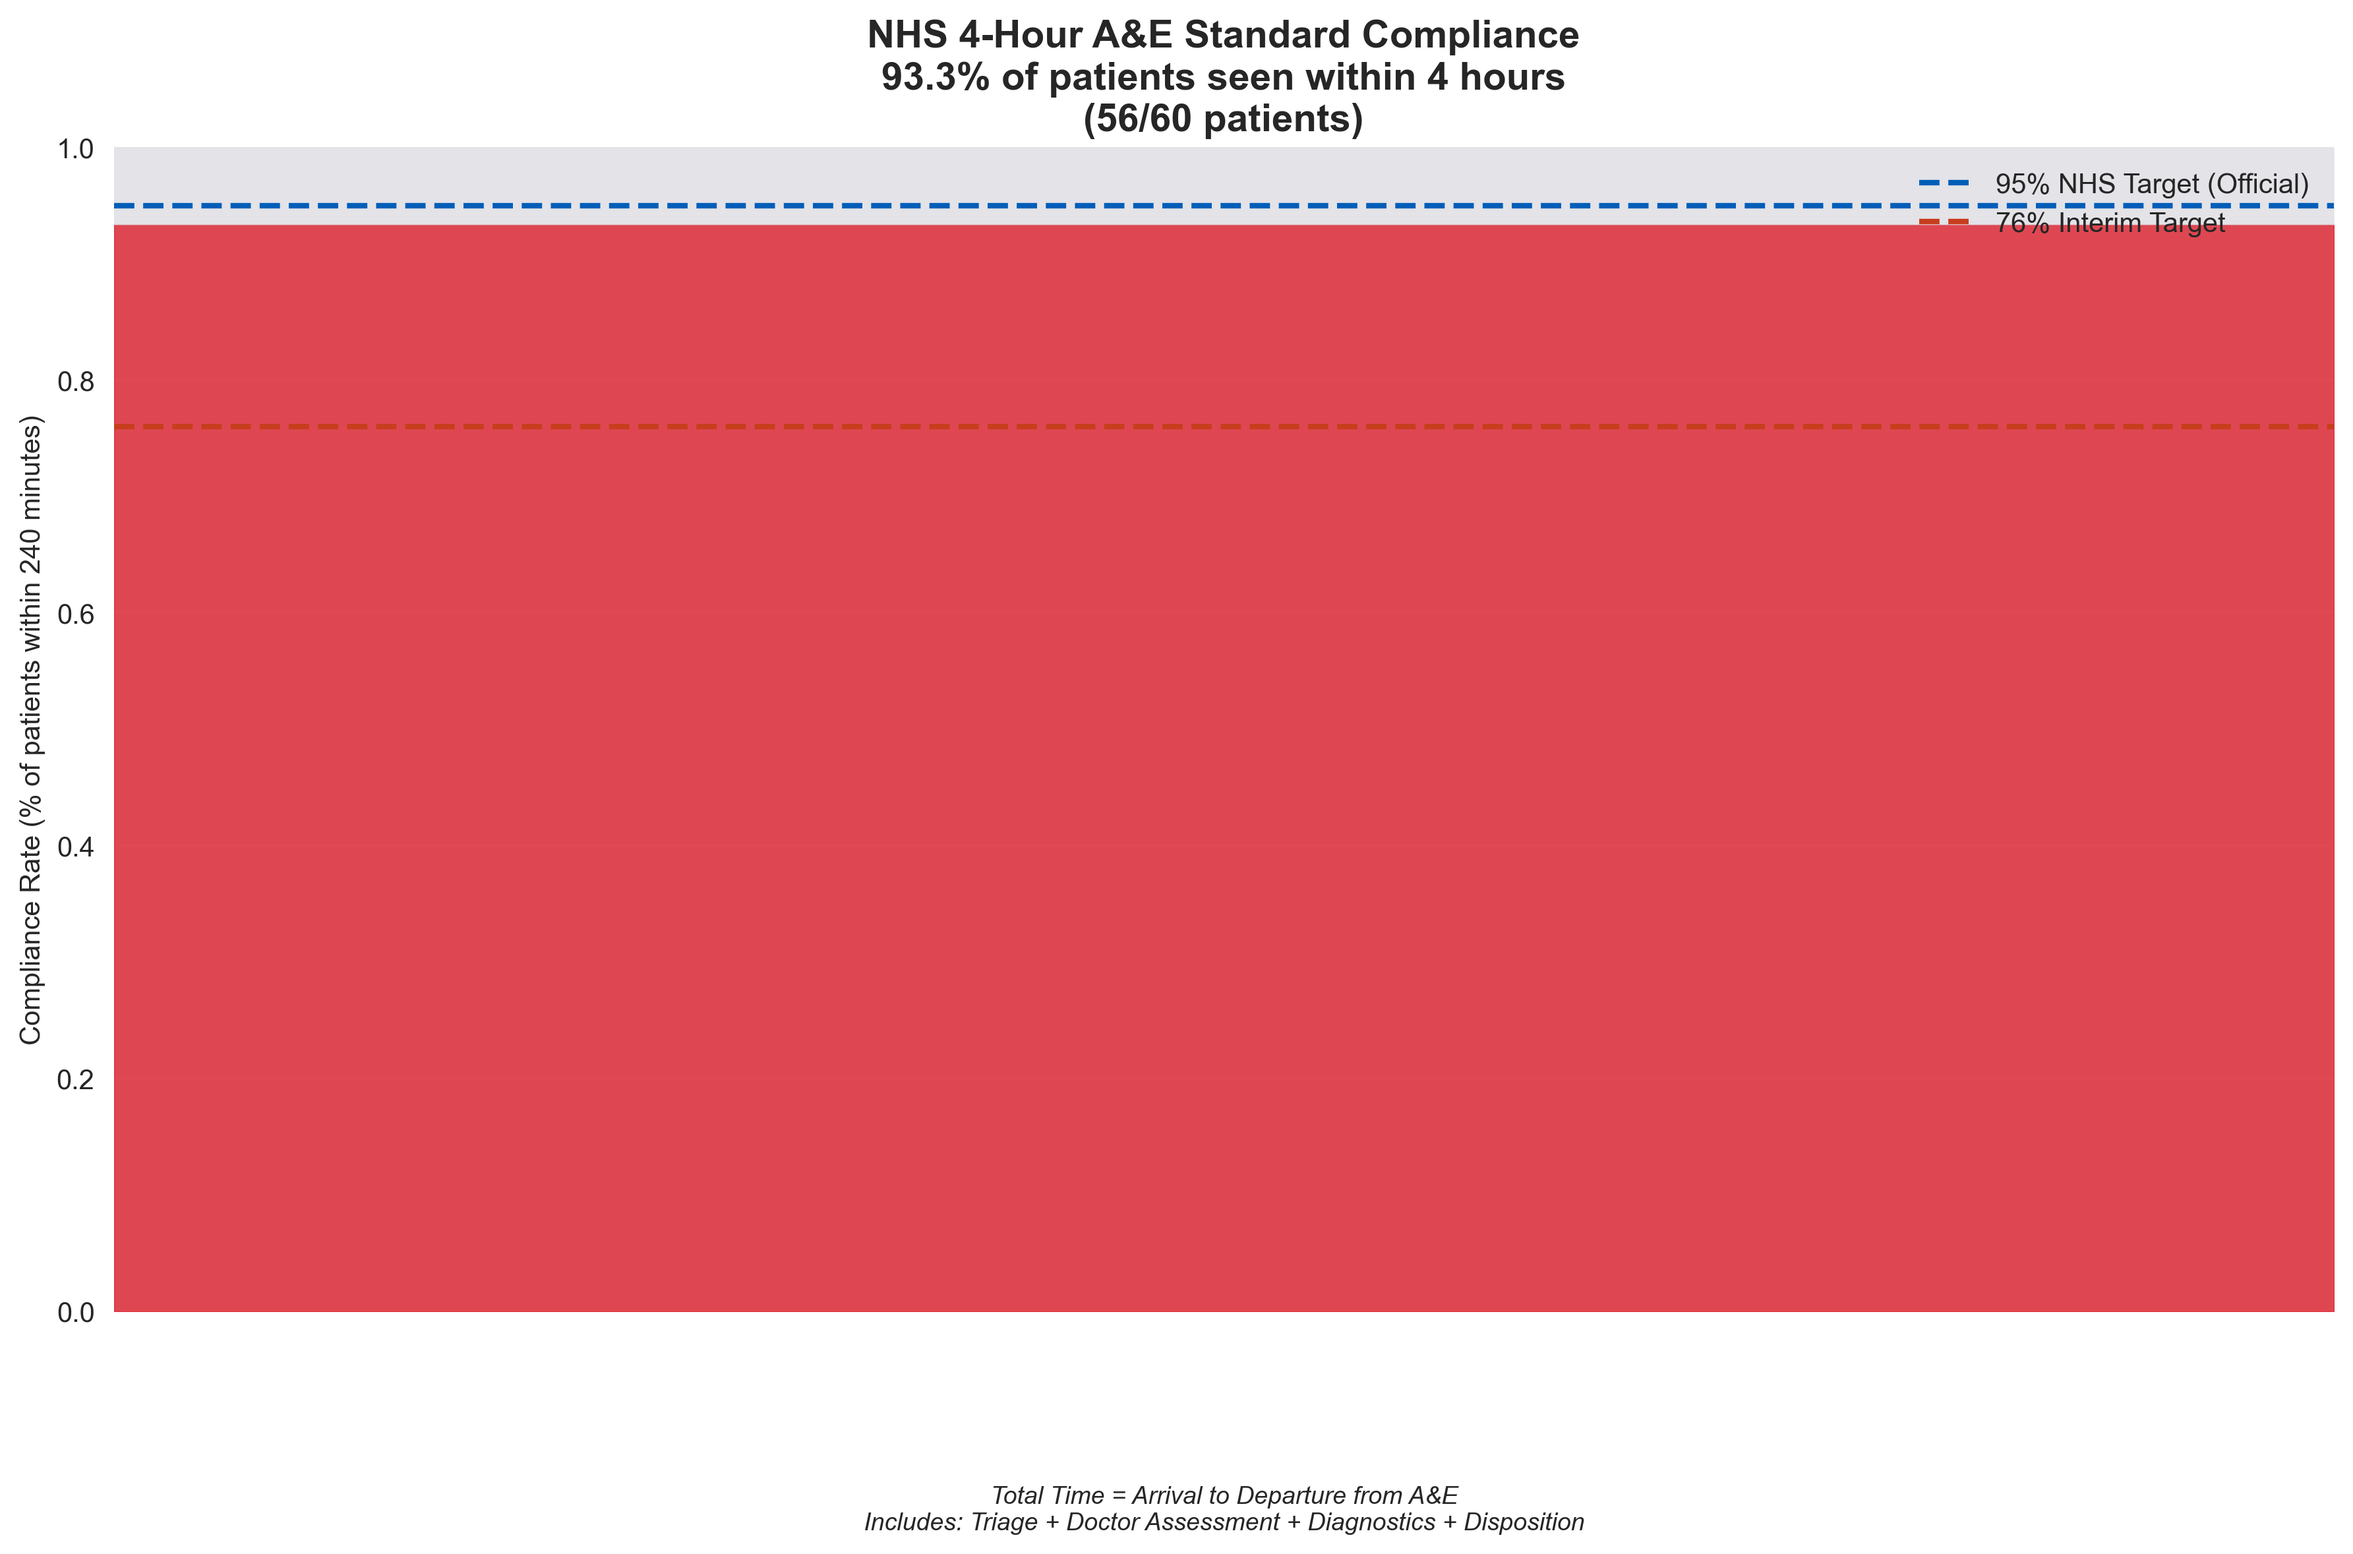
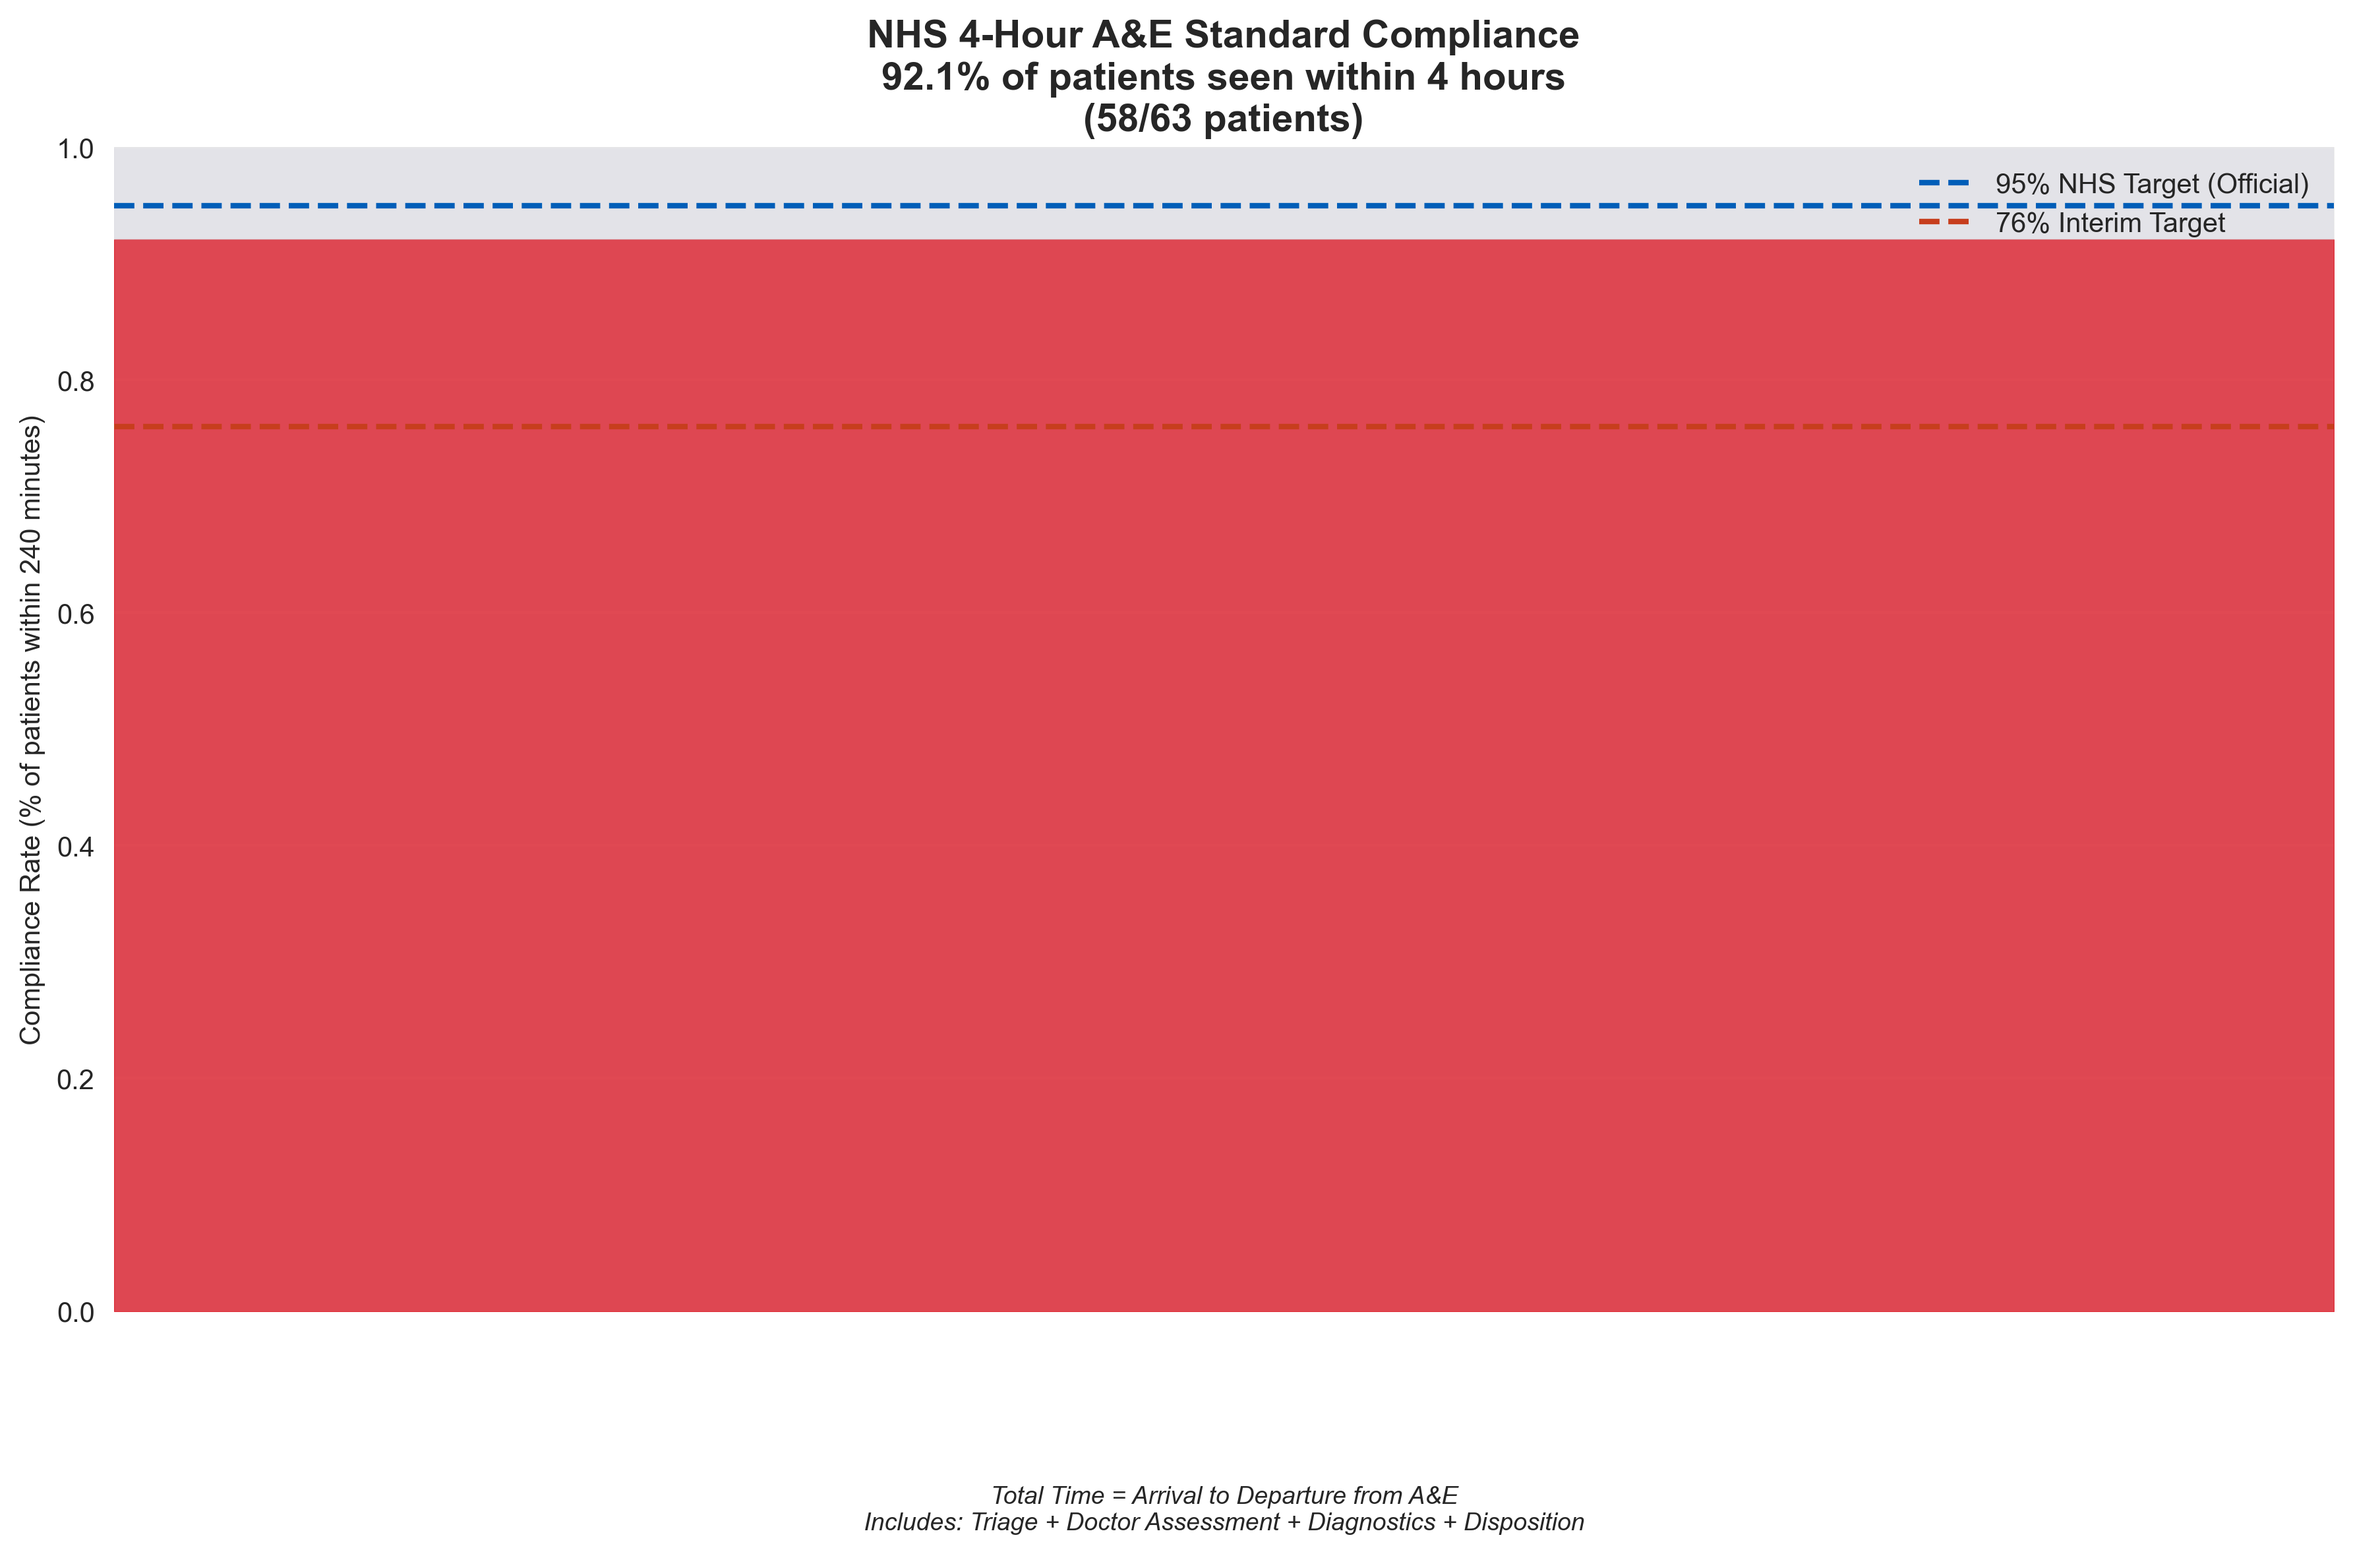
refactor(triage): extract complaint-to-flowchart mapping to dedicated class
Move hardcoded complaint mapping from SimpleHospital to new ComplaintToFlowchartMapping class
Update simulation metrics and plots with latest run data

Changed region(s): [[0.0311, 0.1239, 0.9952, 0.1549], [0.3732, 0.031, 0.4043, 0.0619]]

diff --git a/src/triage/triage_constants.py b/src/triage/triage_constants.py
@@ -218,9 +218,6 @@ class FlowchartSymptomMapping:
             TriageFlowcharts.LIMB_INJURIES.value: cls.LIMB_INJURIES_SYMPTOMS
         }
         return mapping.get(flowchart, cls.CHEST_PAIN_SYMPTOMS)  # Default to chest pain
-    
-    # Note: Random symptom generation removed - simulation now uses only real patient symptoms
-
 
 class MedicalConditions:
     """Standardized medical condition names"""
@@ -614,6 +611,67 @@ class CommonStrings:
     def get_wait_times(cls) -> List[str]:
         """Get all wait time strings in order"""
         return [cls.WAIT_0_MIN, cls.WAIT_10_MIN, cls.WAIT_60_MIN, cls.WAIT_120_MIN, cls.WAIT_240_MIN]
+
+
+class ComplaintToFlowchartMapping:
+    """Mapping of chief complaints to appropriate MTS flowcharts"""
+    
+    COMPLAINT_MAPPING = {
+        MedicalConditions.CHEST_PAIN: TriageFlowcharts.CHEST_PAIN.value,
+        'chest': TriageFlowcharts.CHEST_PAIN.value,
+        CommonStrings.CARDIAC_KEYWORD: TriageFlowcharts.CHEST_PAIN.value,
+        'heart': TriageFlowcharts.CHEST_PAIN.value,
+        MedicalConditions.SHORTNESS_OF_BREATH: TriageFlowcharts.SHORTNESS_OF_BREATH.value,
+        SymptomNames.BREATHING: TriageFlowcharts.SHORTNESS_OF_BREATH.value,
+        SymptomNames.BREATHLESS: TriageFlowcharts.SHORTNESS_OF_BREATH.value,
+        CommonStrings.RESPIRATORY_KEYWORD: TriageFlowcharts.SHORTNESS_OF_BREATH.value,
+        MedicalConditions.ASTHMA: TriageFlowcharts.ASTHMA.value,
+        SymptomNames.ABDOMINAL_PAIN: TriageFlowcharts.ABDOMINAL_PAIN.value,
+        'abdominal': TriageFlowcharts.ABDOMINAL_PAIN.value,
+        'stomach': TriageFlowcharts.ABDOMINAL_PAIN.value,
+        MedicalConditions.APPENDICITIS: TriageFlowcharts.ABDOMINAL_PAIN.value,
+        MedicalConditions.HEADACHE: TriageFlowcharts.HEADACHE.value,
+        'head': TriageFlowcharts.HEADACHE.value,
+        MedicalConditions.MIGRAINE: TriageFlowcharts.HEADACHE.value,
+        CommonStrings.NEUROLOGICAL_KEYWORD: TriageFlowcharts.HEADACHE.value,
+        MedicalConditions.NAUSEA: TriageFlowcharts.VOMITING.value,
+        MedicalConditions.VOMITING: TriageFlowcharts.VOMITING.value,
+        SymptomNames.INJURY: TriageFlowcharts.LIMB_INJURIES.value,
+        CommonStrings.TRAUMA_TERM: TriageFlowcharts.LIMB_INJURIES.value,
+        MedicalConditions.FRACTURE: TriageFlowcharts.LIMB_INJURIES.value,
+        'wound': TriageFlowcharts.WOUNDS.value,
+        'cut': TriageFlowcharts.WOUNDS.value,
+        'burn': TriageFlowcharts.BURNS.value,
+        MedicalConditions.STROKE: TriageFlowcharts.STROKE.value,
+        MedicalConditions.SEIZURE: TriageFlowcharts.FITS.value,
+        SymptomNames.CONFUSION: TriageFlowcharts.CONFUSION.value,
+        SymptomNames.UNCONSCIOUS: TriageFlowcharts.UNCONSCIOUS_ADULT.value,
+        CommonStrings.FEVER_TERM: TriageFlowcharts.CHILD_FEVER.value,
+        CommonStrings.INFECTION_TERM: TriageFlowcharts.CHILD_FEVER.value
+    }
+    
+    @classmethod
+    def get_flowchart_for_complaint(cls, complaint: str) -> str:
+        """Get appropriate flowchart for a chief complaint.
+        
+        Args:
+            complaint: Patient's chief complaint (case-insensitive)
+            
+        Returns:
+            Appropriate flowchart identifier, defaults to chest_pain if no match
+        """
+        if not complaint:
+            return TriageFlowcharts.CHEST_PAIN.value
+        
+        complaint_lower = complaint.lower()
+        
+        # Find matching flowchart
+        for keyword, flowchart in cls.COMPLAINT_MAPPING.items():
+            if keyword in complaint_lower:
+                return flowchart
+        
+        # Default to chest pain if no match found
+        return TriageFlowcharts.CHEST_PAIN.value
 
 
 class FlowchartNames:

diff --git a/src/simulation/real_data_hospital.py b/src/simulation/real_data_hospital.py
@@ -18,7 +18,8 @@ from src.services.random_service import RandomService
 from src.triage.manchester_triage_system import ManchesterTriageSystem
 from src.triage.triage_constants import (
     TriageFlowcharts, FlowchartSymptomMapping, TriageCategories,
-    SymptomKeys, MedicalConditions, CommonStrings, DiagnosticTestTypes, SymptomNames
+    SymptomKeys, MedicalConditions, CommonStrings, DiagnosticTestTypes, SymptomNames,
+    ComplaintToFlowchartMapping
 )
 
 
@@ -156,53 +157,7 @@ class SimpleHospital:
         Returns:
             Appropriate flowchart identifier for the complaint
         """
-        if not chief_complaint:
-            return TriageFlowcharts.CHEST_PAIN.value  # Default to most common presentation
-        
-        complaint_lower = chief_complaint.lower()
-        
-        # Map common complaints to flowcharts
-        complaint_mapping = {
-            'chest pain': TriageFlowcharts.CHEST_PAIN.value,
-            'chest': TriageFlowcharts.CHEST_PAIN.value,
-            'cardiac': TriageFlowcharts.CHEST_PAIN.value,
-            'heart': TriageFlowcharts.CHEST_PAIN.value,
-            'shortness of breath': TriageFlowcharts.SHORTNESS_OF_BREATH.value,
-            'breathing': TriageFlowcharts.SHORTNESS_OF_BREATH.value,
-            'breathless': TriageFlowcharts.SHORTNESS_OF_BREATH.value,
-            'respiratory': TriageFlowcharts.SHORTNESS_OF_BREATH.value,
-            'asthma': TriageFlowcharts.ASTHMA.value,
-            'abdominal pain': TriageFlowcharts.ABDOMINAL_PAIN.value,
-            'abdominal': TriageFlowcharts.ABDOMINAL_PAIN.value,
-            'stomach': TriageFlowcharts.ABDOMINAL_PAIN.value,
-            'appendicitis': TriageFlowcharts.ABDOMINAL_PAIN.value,
-            'headache': TriageFlowcharts.HEADACHE.value,
-            'head': TriageFlowcharts.HEADACHE.value,
-            'migraine': TriageFlowcharts.HEADACHE.value,
-            'neurological': TriageFlowcharts.HEADACHE.value,
-            'nausea': TriageFlowcharts.VOMITING.value,
-            'vomiting': TriageFlowcharts.VOMITING.value,
-            'injury': TriageFlowcharts.LIMB_INJURIES.value,
-            'trauma': TriageFlowcharts.LIMB_INJURIES.value,
-            'fracture': TriageFlowcharts.LIMB_INJURIES.value,
-            'wound': TriageFlowcharts.WOUNDS.value,
-            'cut': TriageFlowcharts.WOUNDS.value,
-            'burn': TriageFlowcharts.BURNS.value,
-            'stroke': TriageFlowcharts.STROKE.value,
-            'seizure': TriageFlowcharts.FITS.value,
-            'confusion': TriageFlowcharts.CONFUSION.value,
-            'unconscious': TriageFlowcharts.UNCONSCIOUS_ADULT.value,
-            'fever': TriageFlowcharts.CHILD_FEVER.value,
-            'infection': TriageFlowcharts.CHILD_FEVER.value
-        }
-        
-        # Find matching flowchart
-        for keyword, flowchart in complaint_mapping.items():
-            if keyword in complaint_lower:
-                return flowchart
-        
-        # Default to chest pain if no match found (most common presentation)
-        return TriageFlowcharts.CHEST_PAIN.value
+        return ComplaintToFlowchartMapping.get_flowchart_for_complaint(chief_complaint)
     
     def _convert_symptoms_to_mts_format(self, raw_symptoms: Dict[str, str], flowchart_reason: str) -> Dict[str, str]:
         """Convert real patient symptoms to MTS flowchart format.
